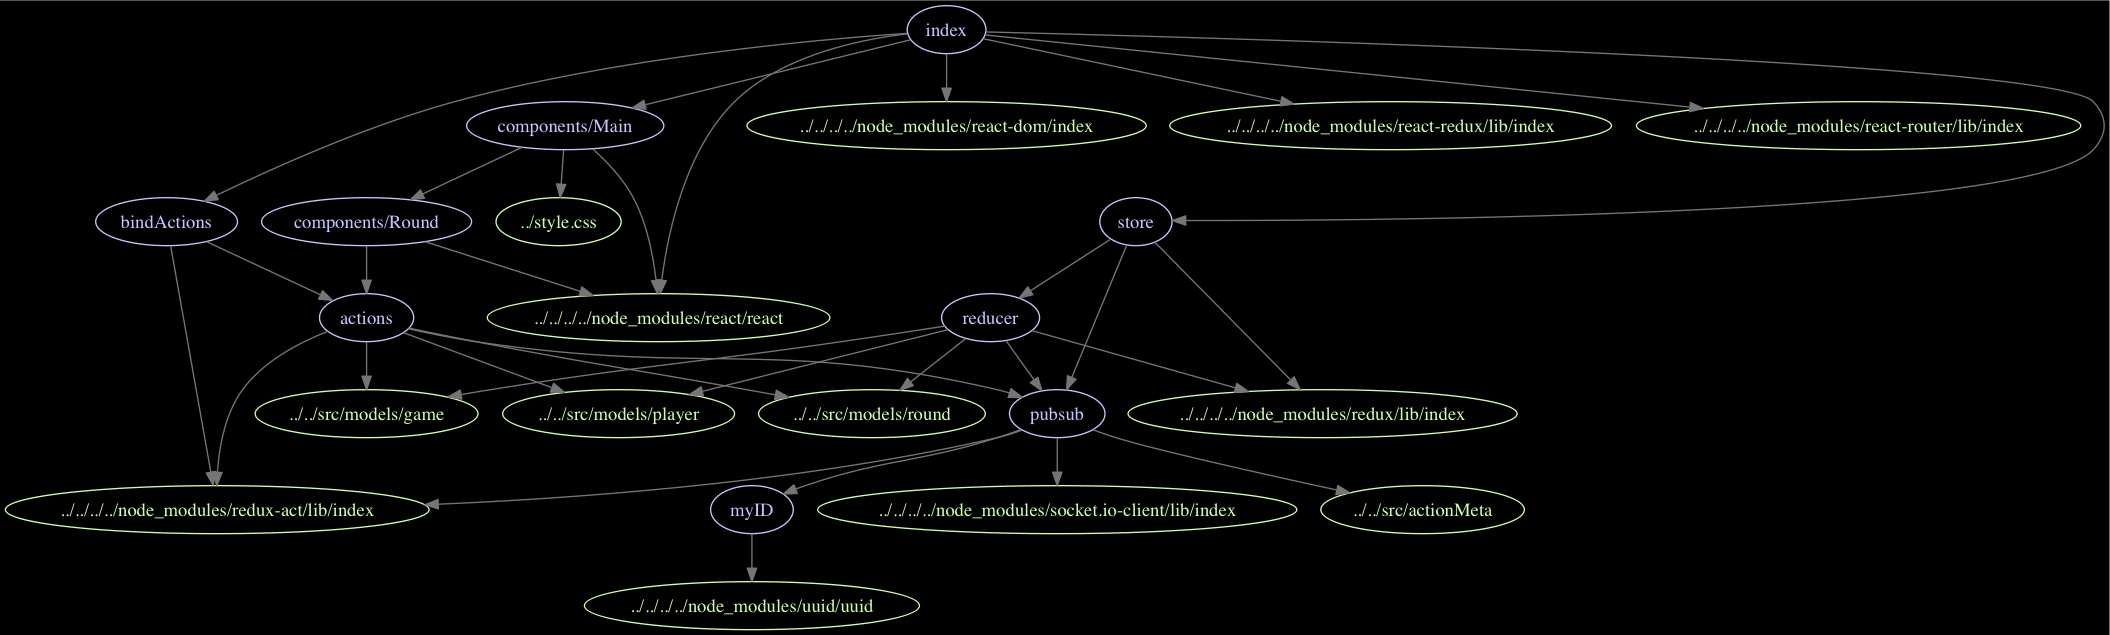
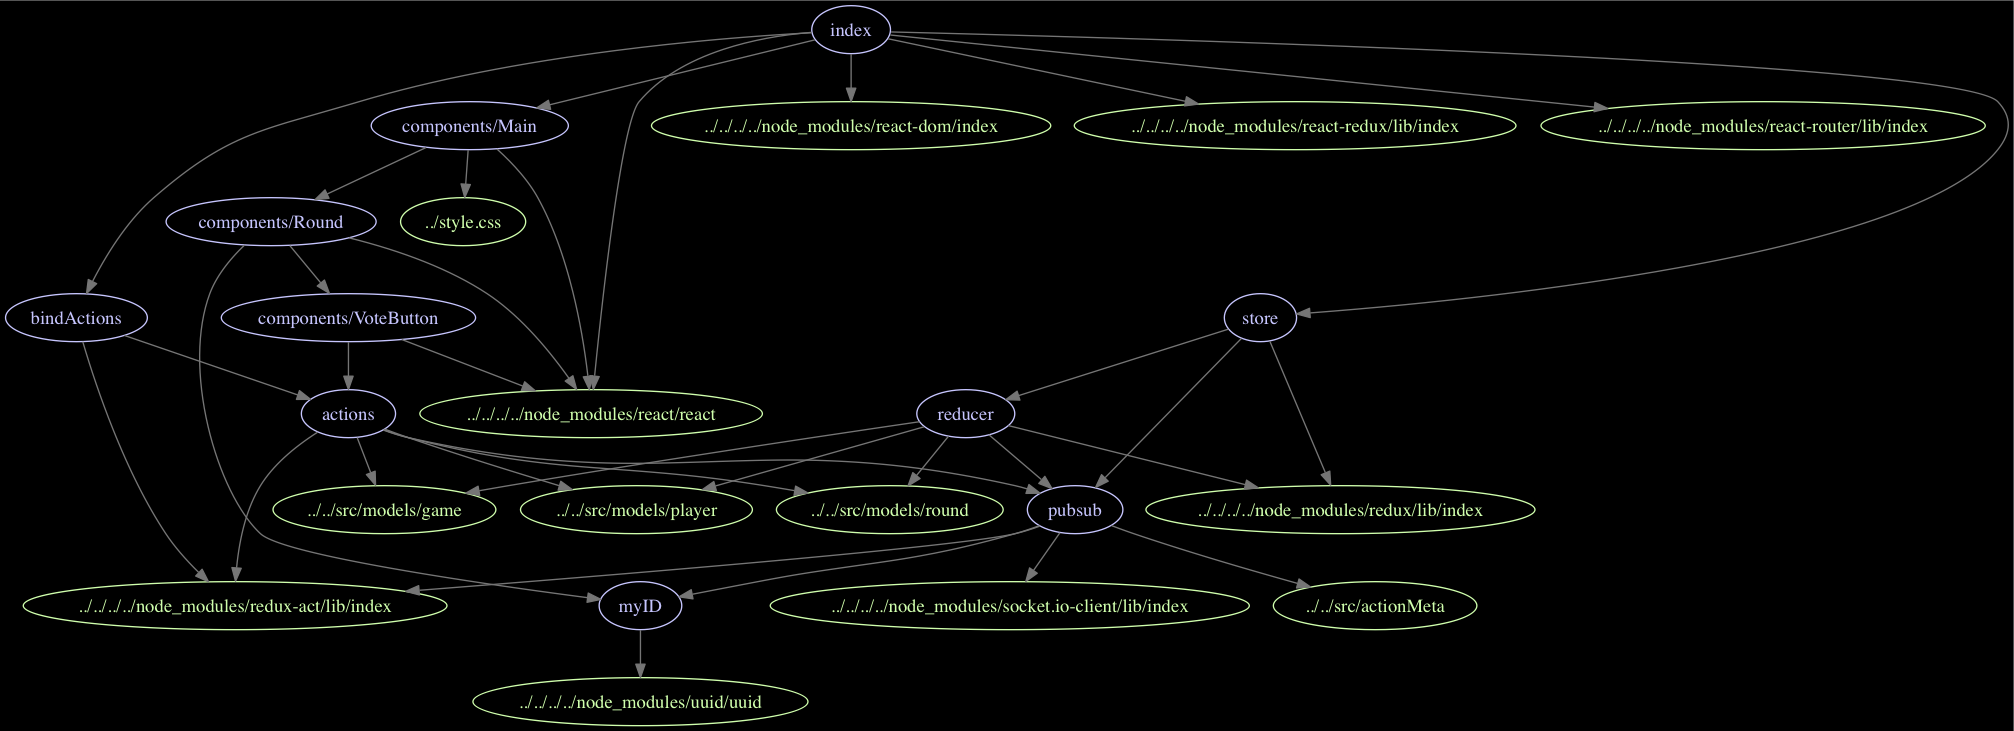
implement judging - decent actual play!

diff --git a/client/src/components/VoteButton.jsx b/client/src/components/VoteButton.jsx
@@ -1,24 +1,28 @@
 import React from 'react'
 import Actions from '../actions'
-import getClientID from '../myID'
 
-const displayStyle = ({responses, choice, myID}) => {
+const displayStyle = ({choice, myID, question, responses, judged}) => {
+
   let myResponse = responses.find(r => r.clientID == myID)
   let myChoice = myResponse && myResponse.choice
   let myChoiceConfirmed = myResponse && myResponse.acceptedAt
+  let myChoiceReceived = myResponse && myResponse.receivedAt
 
   // they havent answered
   if (!myResponse) return ''
   // this button isnt for their answer
   if (myChoice !== choice) return ''
 
-  return myChoiceConfirmed ? 'accepted' : 'pending'
+  if (!myChoiceReceived) return 'pending'
+  if (!judged) return 'pending'
+
+  return myChoiceConfirmed ? 'accepted' : 'incorrect'
 }
 
-export default ({choice, question, responses}) => (
+export default ({choice, question, responses, judged, myID}) => (
   <button
-    disabled={responses.length > 0}
-    className={displayStyle({choice, responses, myID: getClientID()})}
+    disabled={judged || responses.filter(r => r.clientID == myID).length > 0}
+    className={displayStyle({choice, question, responses, judged, myID})}
     key={choice}
     onClick={() => Actions.answerQuestion({choice, questionId: question.id})}
     >

diff --git a/src/models/round.js b/src/models/round.js
@@ -4,12 +4,14 @@ import {skipClient} from '../actionMeta'
 
 export let advanceQuestion = createAction('ADVANCE_QUESTION', ...skipClient)
 export let answerQuestion = createAction('ANSWER_QUESTION', ...skipClient)
+export let judgeQuestion = createAction('JUDGE_QUESTION', ...skipClient)
 
 export let initialRound = {question: null, responses: []}
 
 export let Actions = {
   advanceQuestion,
-  answerQuestion
+  answerQuestion,
+  judgeQuestion
 }
 
 export let Reducer = createReducer({
@@ -22,6 +24,13 @@ export let Reducer = createReducer({
     return {
       question: round.question,
       responses: [...round.responses, response]
+    }
+  },
+  [judgeQuestion]: (round, _) => {
+    return {
+      question: round.question,
+      responses: round.responses,
+      judged: true
     }
   }
 }, initialRound)

diff --git a/client/src/components/Round.jsx b/client/src/components/Round.jsx
@@ -1,7 +1,11 @@
 import React from 'react'
 import VoteButton from './VoteButton'
 
-export default ({question, responses}) => {
+import getClientID from '../myID'
+
+let myID = getClientID()
+
+export default ({question, responses, judged}) => {
   let {prompt, choices=[]} = question || {}
 
   return (
@@ -11,7 +15,9 @@ export default ({question, responses}) => {
     </div>
 
     <div className="voting">
-      {choices.map(choice => VoteButton({choice, question, responses}))}
+      {choices.map(choice => VoteButton({myID, choice, question, responses, judged}))}
     </div>
+
+    {judged && <div className="answer">The Answer Was:<br/> {question.answer} </div>}
   </div>)
 }

diff --git a/src/serverMiddleware.js b/src/serverMiddleware.js
@@ -1,8 +1,18 @@
 import Actions from './actions'
 
-export let timestampMiddleware = store => next => (action) => {
-  if (action.type == Actions.answerQuestion.toString()) {
-    action.payload.acceptedAt = new Date()
+export let answerQuestionMiddleware = store => next => (action) => {
+  if (action.type !== Actions.answerQuestion.toString())
+       return next(action)
+
+  let timestamp = new Date()
+  action.payload.receivedAt = timestamp
+
+  let state = store.getState()
+
+  if (state.round.question.answer === action.payload.choice &&
+     !state.round.responses.find(r => r.acceptedAt)) {
+    action.payload.acceptedAt = timestamp
   }
+
   return next(action)
 }

diff --git a/client/src/components/TestHarness.jsx b/client/src/components/TestHarness.jsx
@@ -11,6 +11,8 @@ export default (props) => (
   <div>
     <h2>Action Triggers</h2>
     <hr/>
+    <button onClick={() => Actions.judgeQuestion()}>Judge Question</button>
+     <hr/>
     <button onClick={() => Actions.advanceQuestion()}>Advance Question</button>
      <hr/>
      <p/>

diff --git a/client/src/style.css b/client/src/style.css
@@ -16,6 +16,10 @@ button.accepted {
   border: green solid 3px;
 }
 
+button.incorrect {
+  border: red solid 3px;
+}
+
 /* Voting Screen */
 
 .voting {
